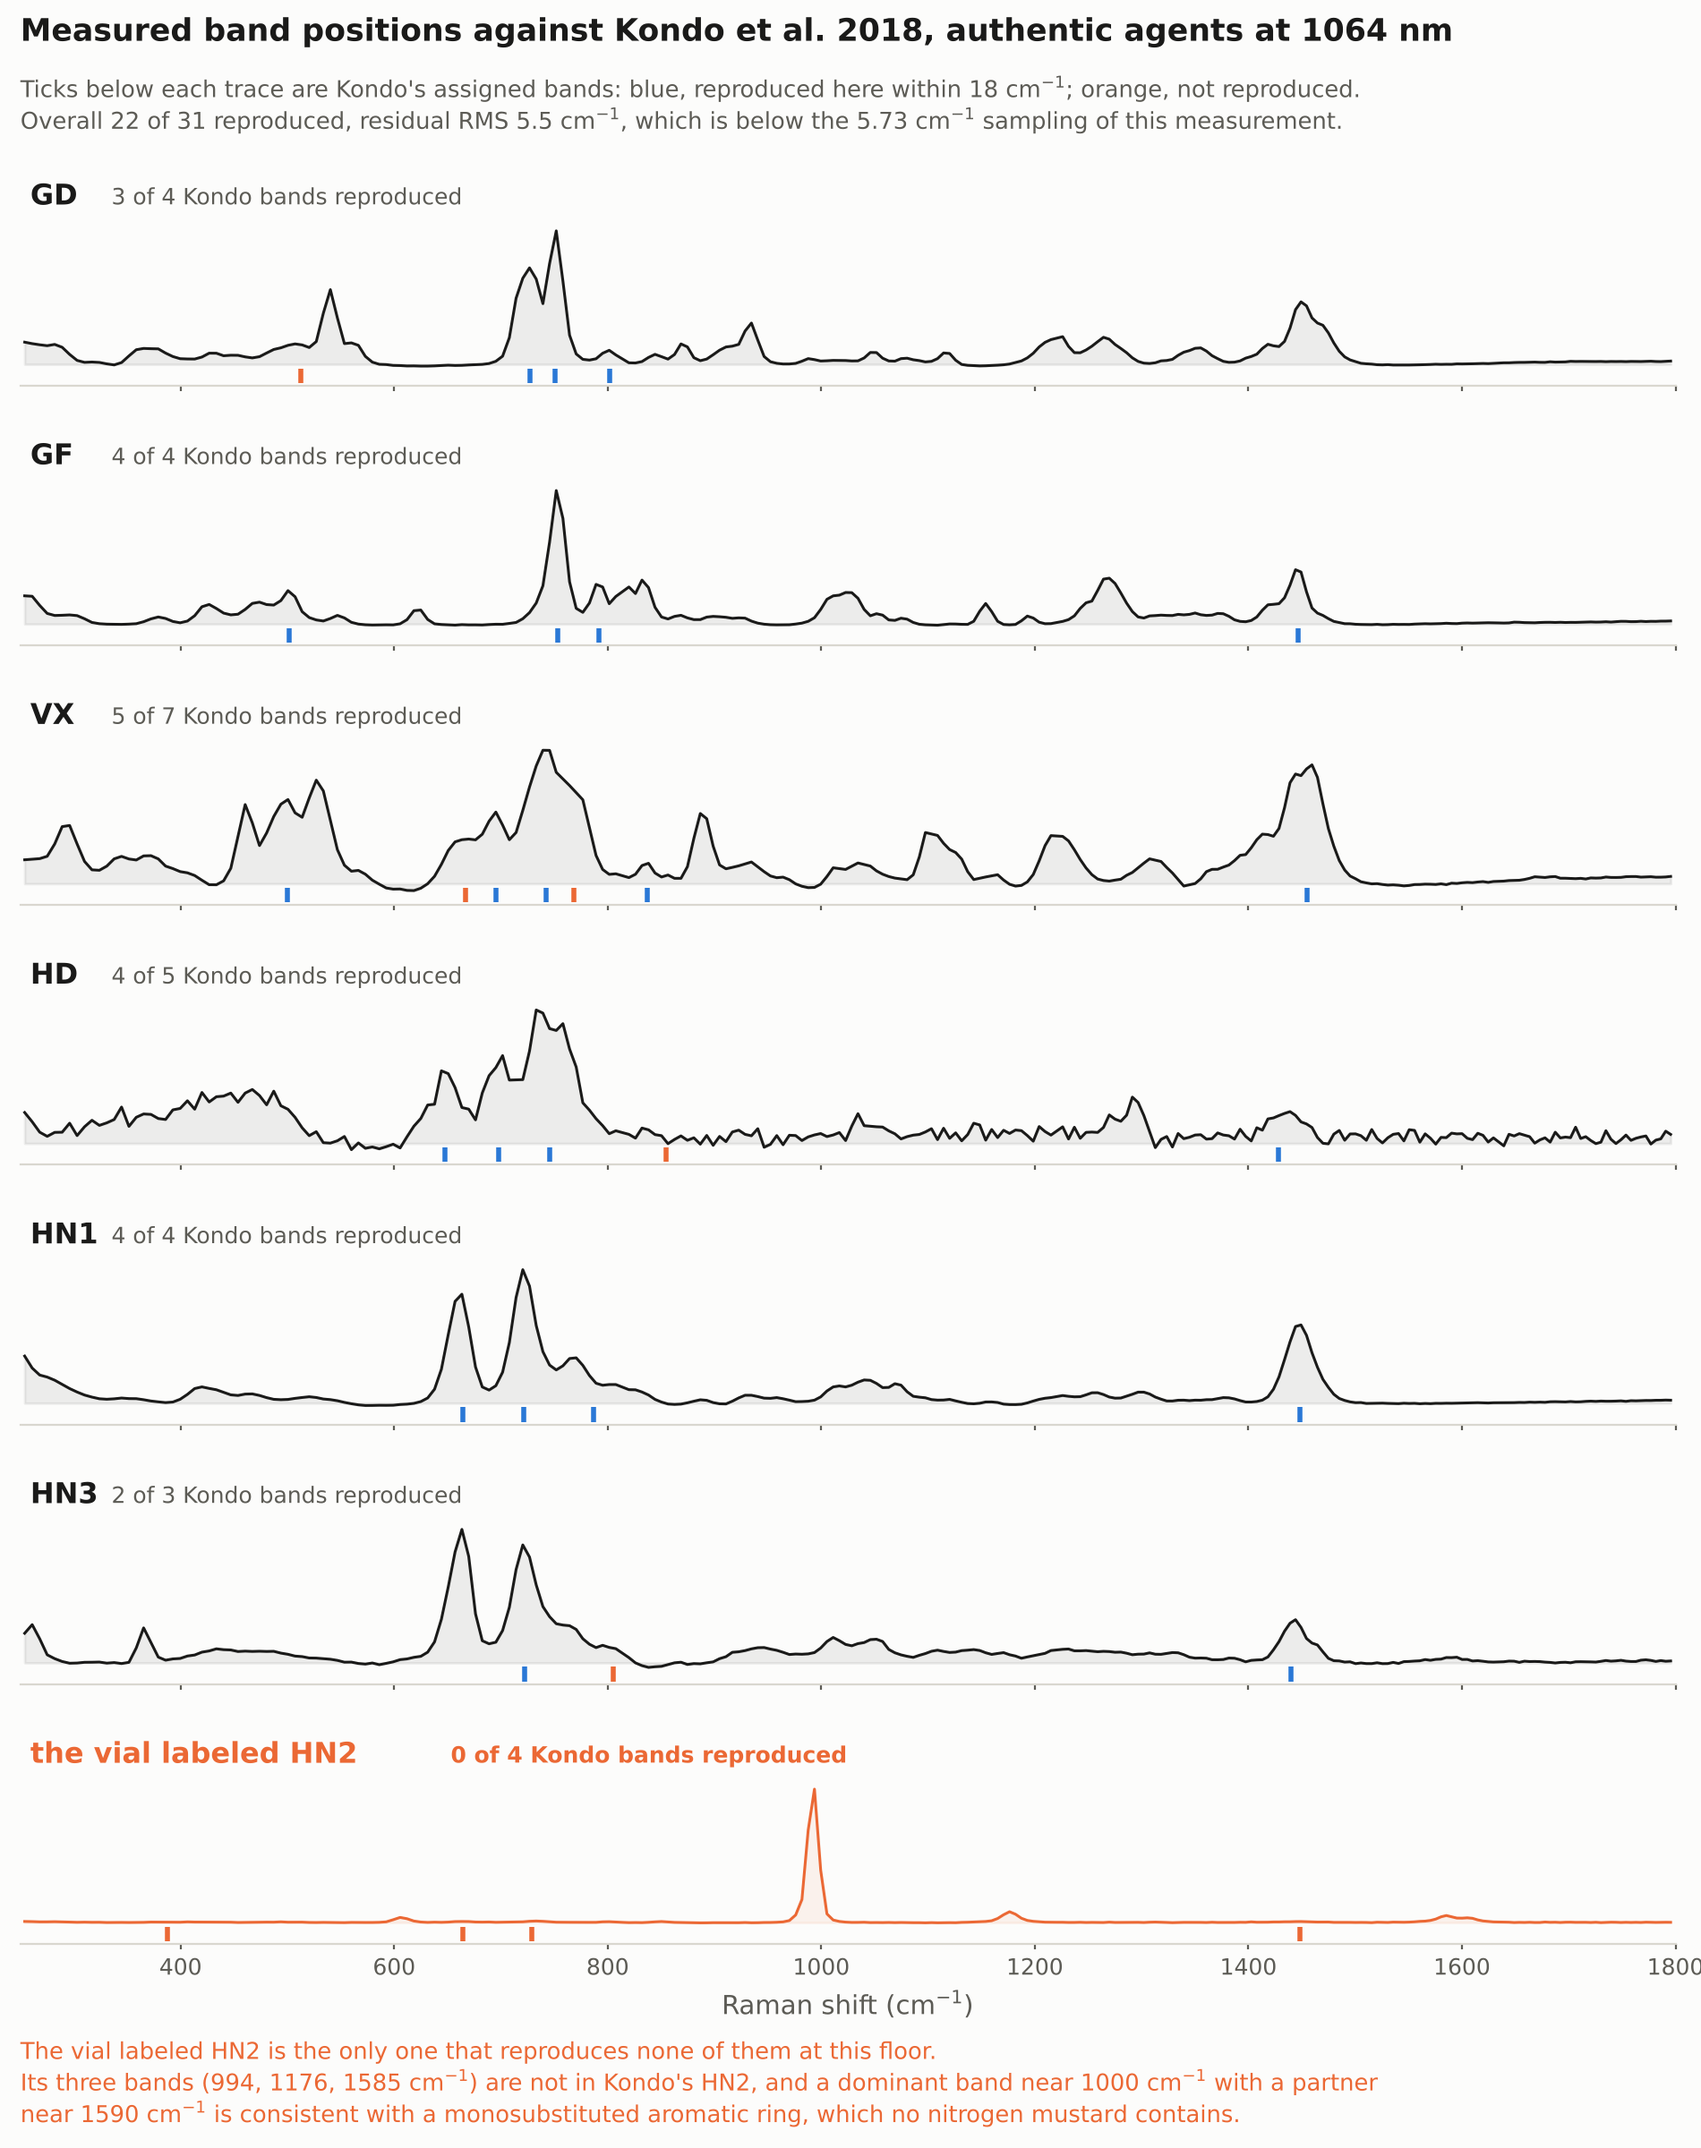
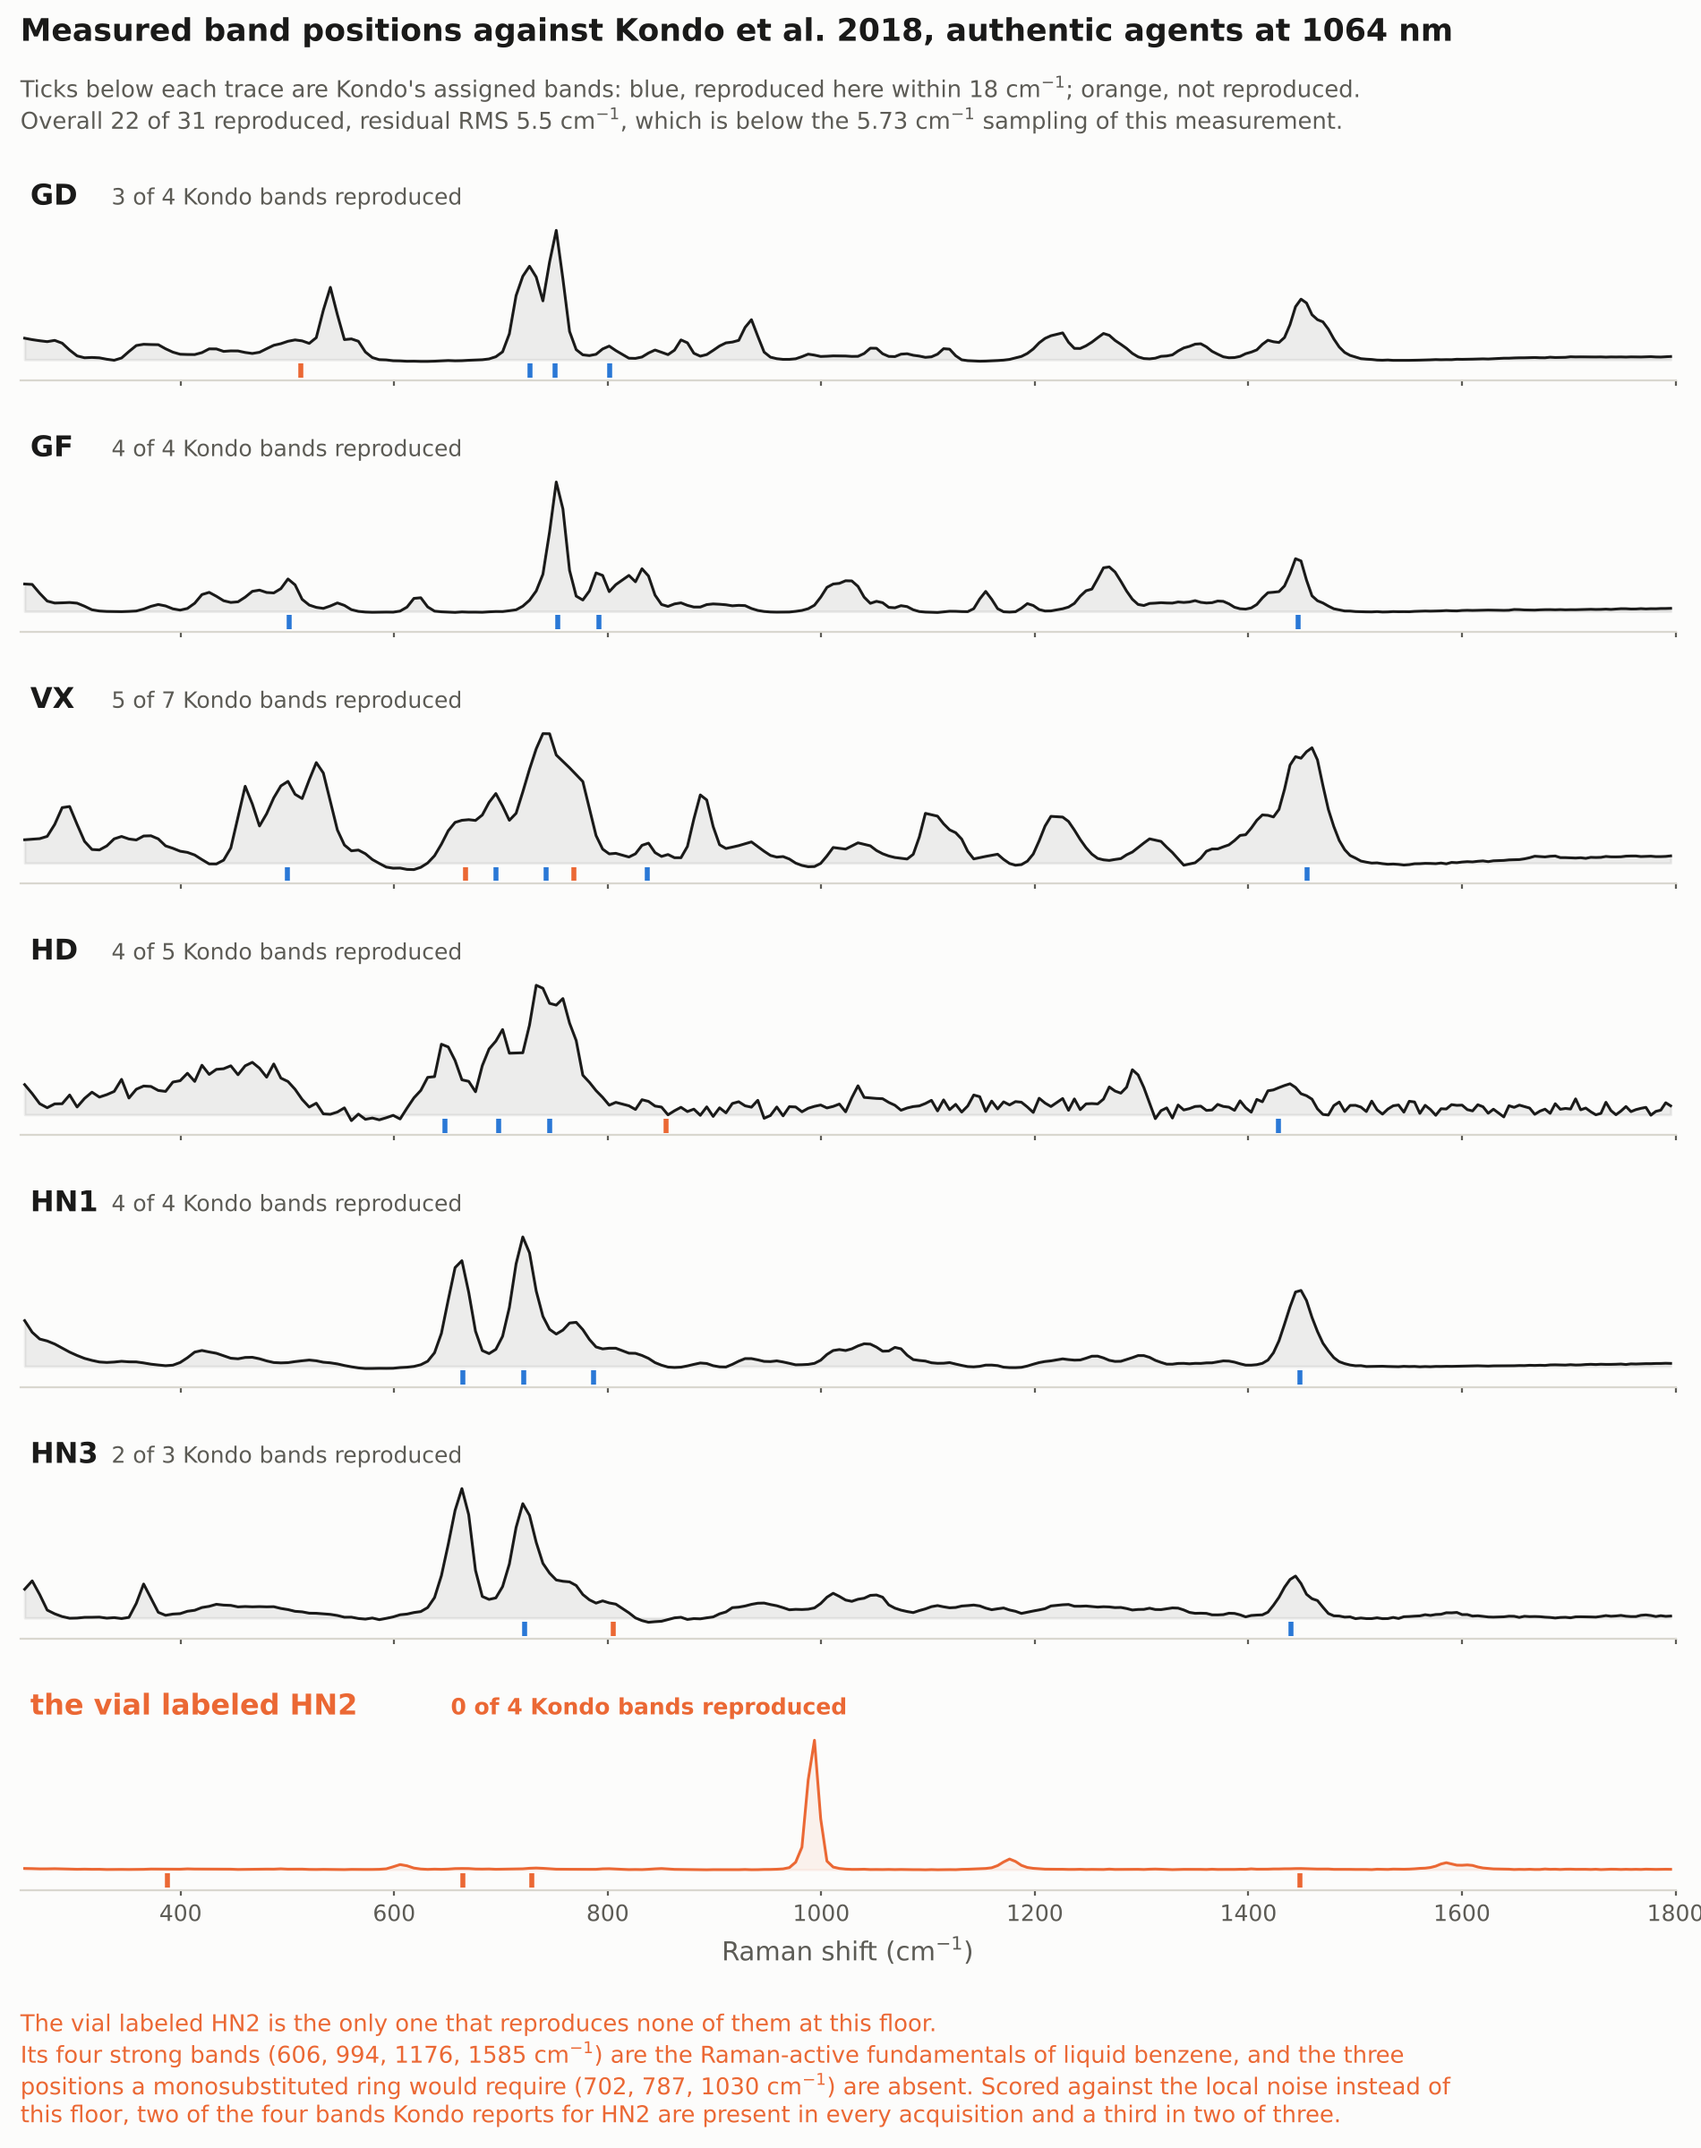
Fix retracted claim and acquisition count printed inside Figures S1 and S4
Claude-Session: https://claude.ai/code/session_011PMiCApsHPnkwD4d7743h4

diff --git a/code/v3_fig_kondo.py b/code/v3_fig_kondo.py
@@ -62,11 +62,13 @@ def main():
              "of this measurement.", fontsize=9.3, color=INK2)
     fig.text(0.012, 0.012,
              "The vial labeled HN2 is the only one that reproduces none of them at this floor.\n"
-             "Its three bands (994, 1176, 1585 cm$^{-1}$) are not in Kondo's HN2, and a dominant "
-             "band near 1000 cm$^{-1}$ with a partner\nnear 1590 cm$^{-1}$ is consistent with a "
-             "monosubstituted aromatic ring, which no nitrogen mustard contains.",
+             "Its four strong bands (606, 994, 1176, 1585 cm$^{-1}$) are the Raman-active "
+             "fundamentals of liquid benzene, and the three\npositions a monosubstituted ring "
+             "would require (702, 787, 1030 cm$^{-1}$) are absent. Scored against the local noise "
+             "instead of\nthis floor, two of the four bands Kondo reports for HN2 are present in "
+             "every acquisition and a third in two of three.",
              fontsize=9.3, color=ORANGE)
-    fig.subplots_adjust(left=0.012, right=0.985, top=0.900, bottom=0.095, hspace=0.52)
+    fig.subplots_adjust(left=0.012, right=0.985, top=0.900, bottom=0.120, hspace=0.52)
     out = os.path.join(ROOT, "figures", "kondo_comparison.png")
     fig.savefig(out, dpi=200, facecolor=BG)
     print("saved figures/kondo_comparison.png")

diff --git a/code/v3_fig_hn2.py b/code/v3_fig_hn2.py
@@ -66,7 +66,7 @@ for nu, _ in ABS:
 b.set_xlim(250, 1800); b.set_ylim(-0.012, 0.075)
 b.set_xlabel("Raman shift (cm$^{-1}$)", fontsize=11, color=INK2)
 b.set_ylabel("normalized intensity", fontsize=11, color=INK2)
-b.set_title("Same spectrum, 13$\\times$ vertical zoom: three of Kondo's four HN2 bands are present and reproduce in all three acquisitions",
+b.set_title("Same spectrum, 13$\\times$ vertical zoom: three of Kondo's four HN2 bands clear 3$\\sigma$ in this mean spectrum, two of them in every acquisition",
             fontsize=11.5, color=INK, loc="left")
 b.text(0.995, 0.97, "grey, lower row: positions a monosubstituted ring would require (702, 787, 1030) — all below 1.5$\\sigma$",
        transform=b.transAxes, ha="right", fontsize=9, color="0.45")

diff --git a/README.md b/README.md
@@ -163,6 +163,6 @@ Code: MIT (see `LICENSE`). Data and figures: CC BY 4.0.
 
 ## Citation
 
-Release `v1.2.0` is the state from which every number in the manuscript was produced.
+Release `v1.2.1` is the state from which every number in the manuscript was produced.
 `CITATION.cff` carries the version and the repository; the article DOI will be added here
 when it is issued.
